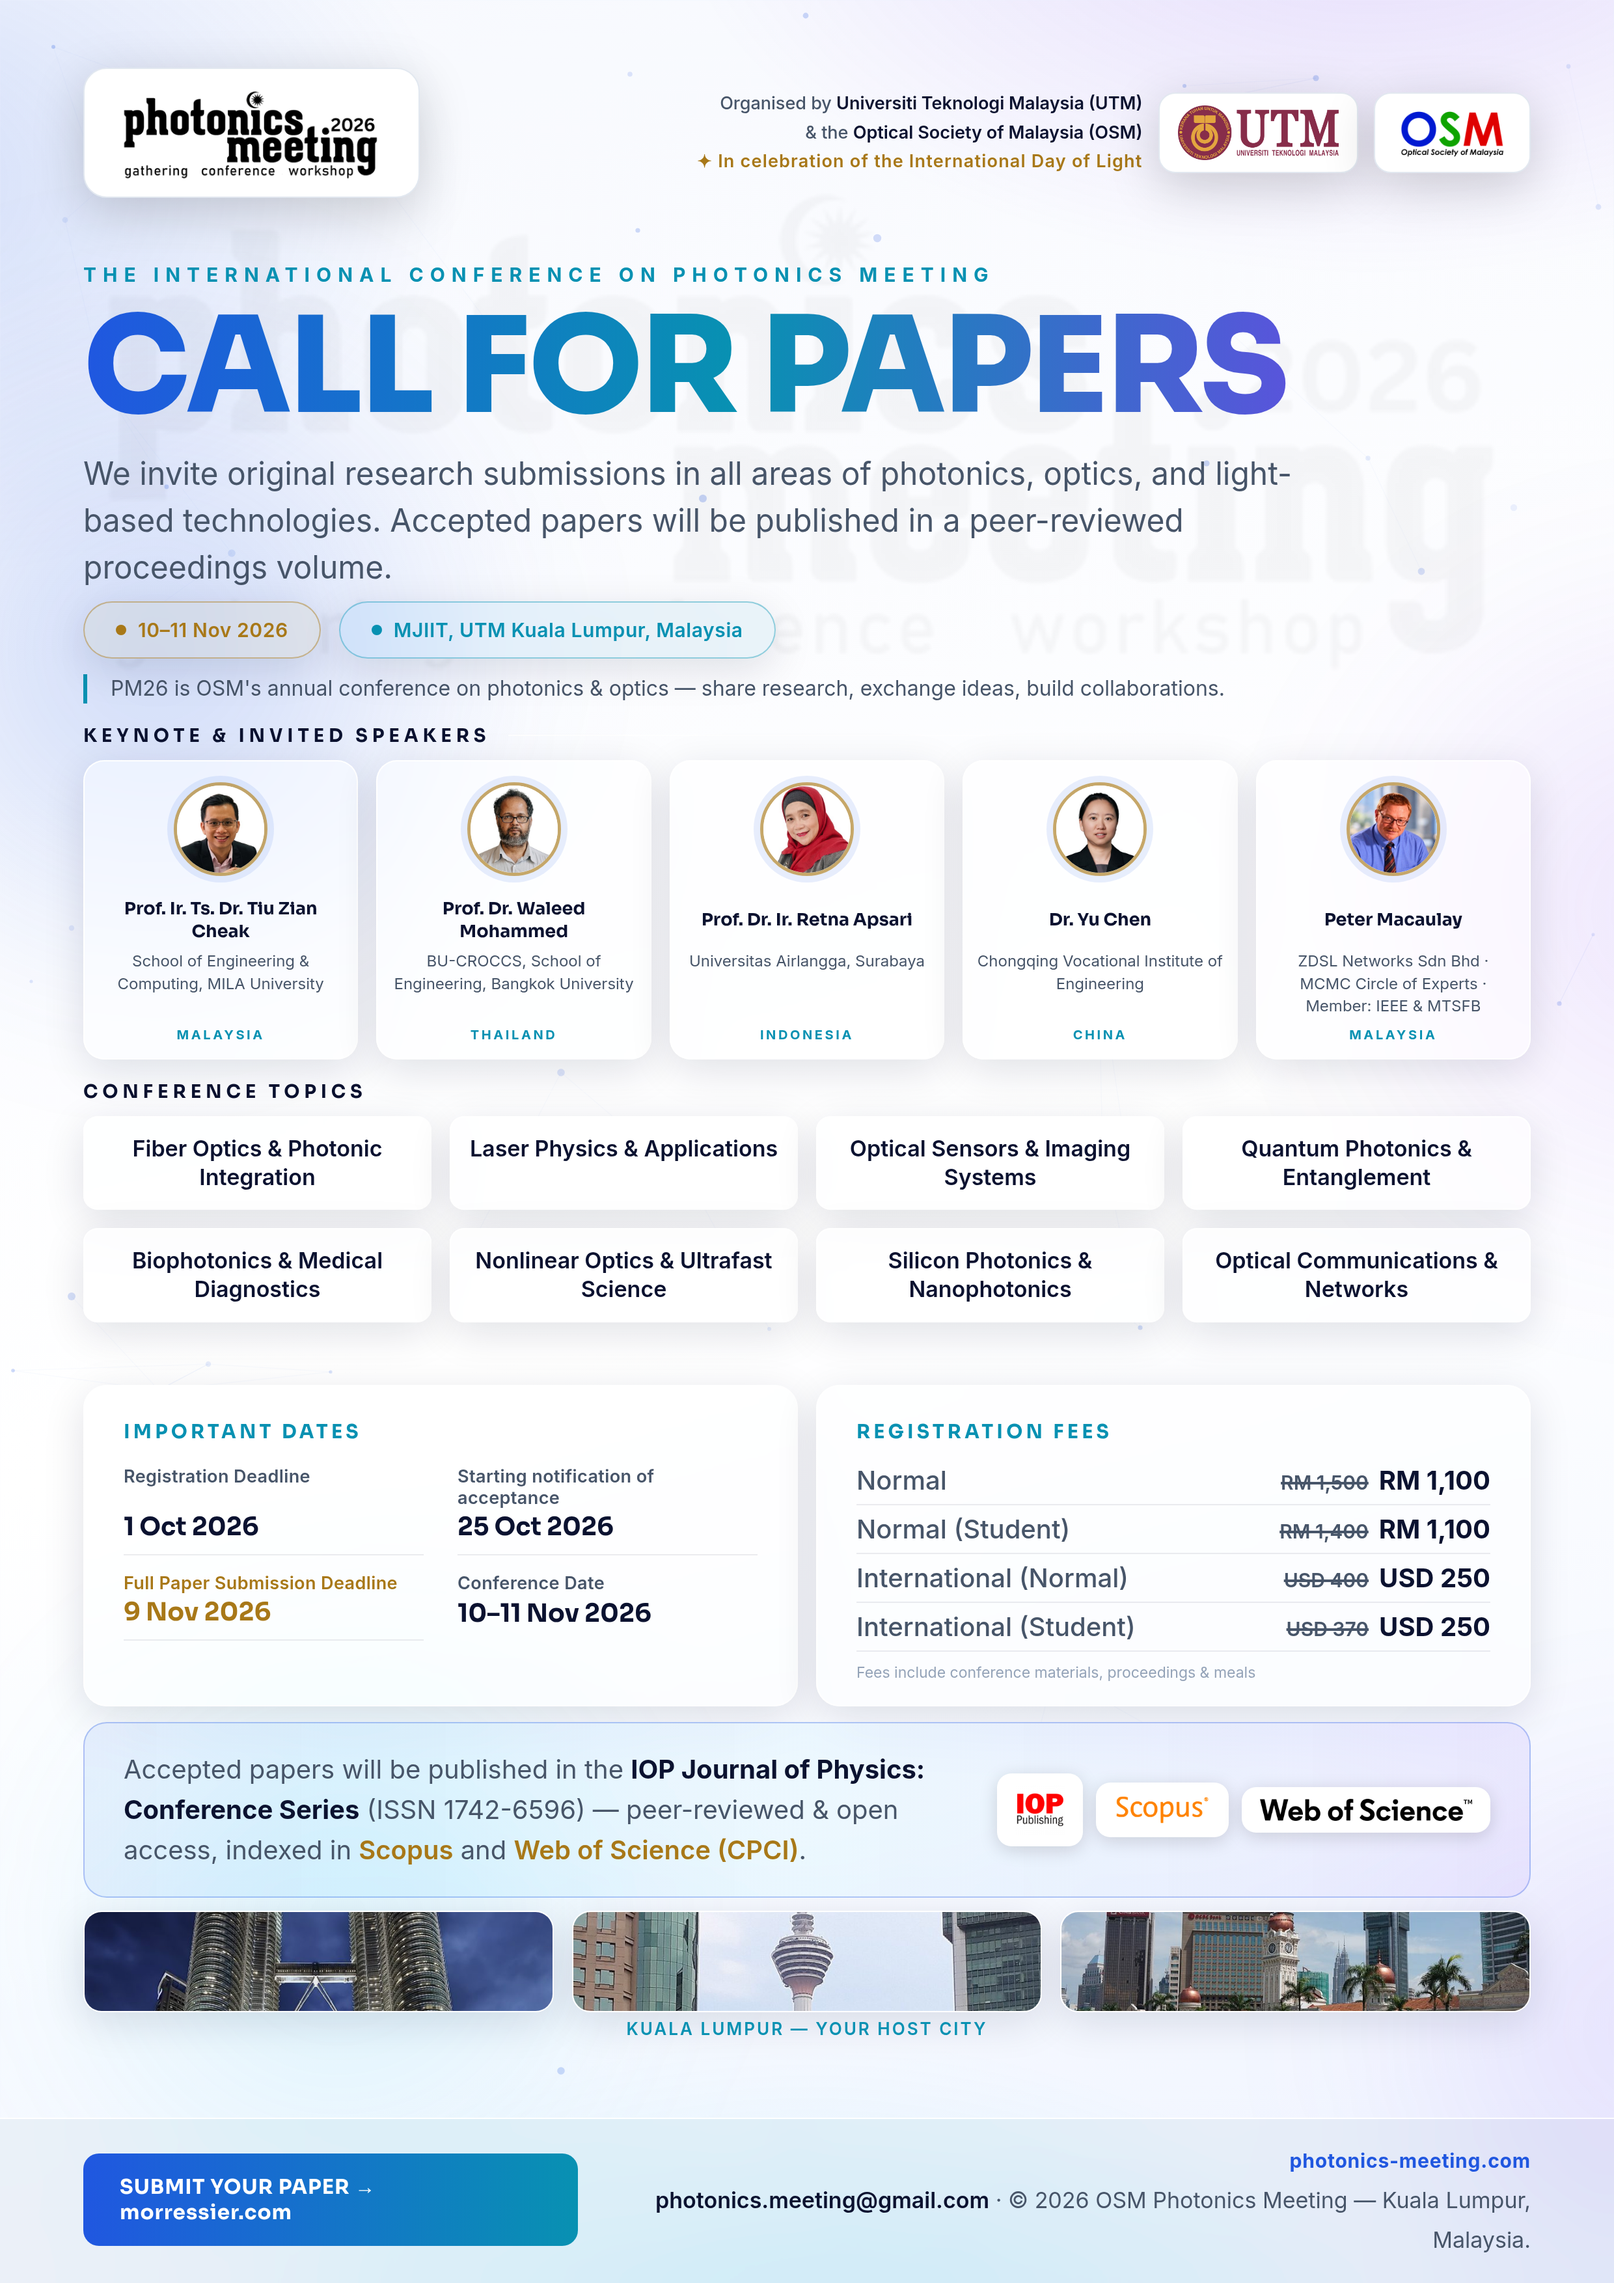
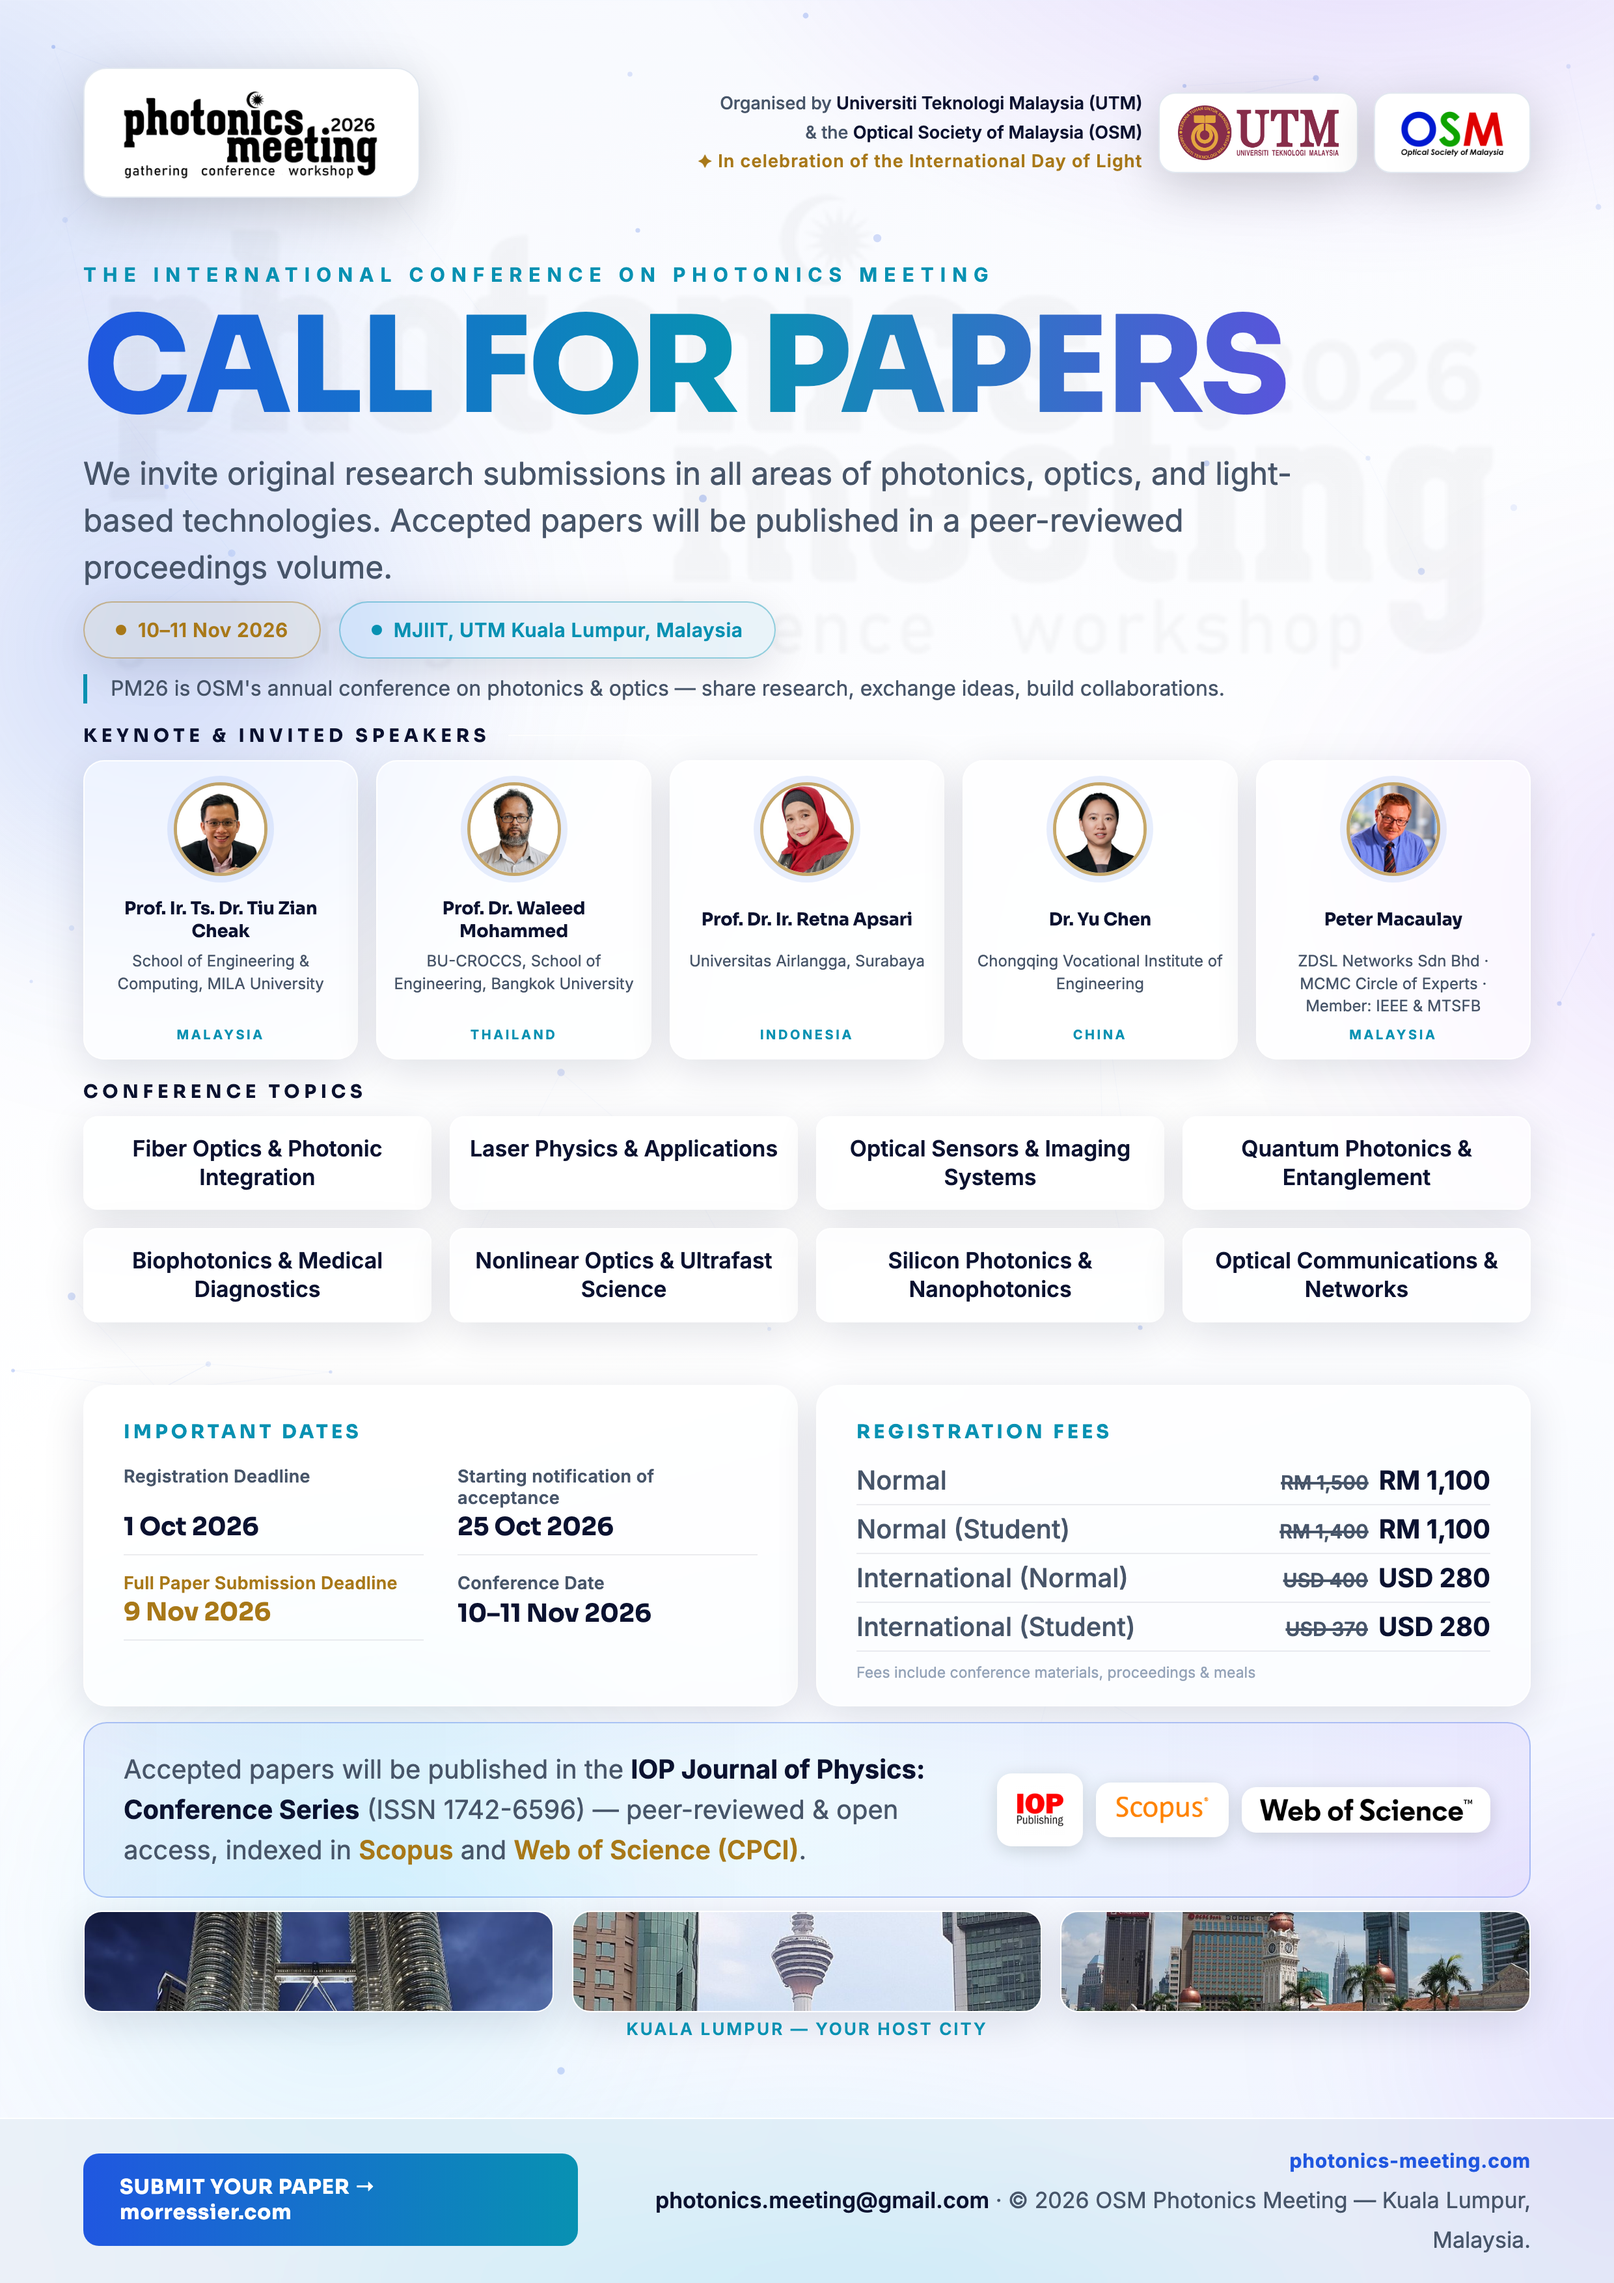
Fees: international rate to USD 280 (was USD 250)
Both international tiers (Normal and Student) now USD 280, previous rates
still shown struck through. Malaysian rate unchanged at RM 1,100.
Posters regenerated.

Changed region(s): [[0.2794, 0.4039, 0.3415, 0.435], [0.8694, 0.6836, 0.9004, 0.7147], [0.1242, 0.4039, 0.1552, 0.435]]

diff --git a/poster/pm26-cfp-poster-bright.html b/poster/pm26-cfp-poster-bright.html
@@ -183,7 +183,7 @@
     </div>
     <div class="panel">
       <h3>REGISTRATION FEES</h3>
-      <div class="row"><span class="row-l">Normal</span><span class="row-r"><s class="row-old">RM 1,500</s>RM 1,100</span></div><div class="row"><span class="row-l">Normal (Student)</span><span class="row-r"><s class="row-old">RM 1,400</s>RM 1,100</span></div><div class="row"><span class="row-l">International (Normal)</span><span class="row-r"><s class="row-old">USD 400</s>USD 250</span></div><div class="row"><span class="row-l">International (Student)</span><span class="row-r"><s class="row-old">USD 370</s>USD 250</span></div>
+      <div class="row"><span class="row-l">Normal</span><span class="row-r"><s class="row-old">RM 1,500</s>RM 1,100</span></div><div class="row"><span class="row-l">Normal (Student)</span><span class="row-r"><s class="row-old">RM 1,400</s>RM 1,100</span></div><div class="row"><span class="row-l">International (Normal)</span><span class="row-r"><s class="row-old">USD 400</s>USD 280</span></div><div class="row"><span class="row-l">International (Student)</span><span class="row-r"><s class="row-old">USD 370</s>USD 280</span></div>
       <div class="fee-note">Fees include conference materials, proceedings &amp; meals</div>
     </div>
   </div>

diff --git a/poster/pm26-cfp-poster.html b/poster/pm26-cfp-poster.html
@@ -183,7 +183,7 @@
     </div>
     <div class="panel">
       <h3>REGISTRATION FEES</h3>
-      <div class="row"><span class="row-l">Normal</span><span class="row-r"><s class="row-old">RM 1,500</s>RM 1,100</span></div><div class="row"><span class="row-l">Normal (Student)</span><span class="row-r"><s class="row-old">RM 1,400</s>RM 1,100</span></div><div class="row"><span class="row-l">International (Normal)</span><span class="row-r"><s class="row-old">USD 400</s>USD 250</span></div><div class="row"><span class="row-l">International (Student)</span><span class="row-r"><s class="row-old">USD 370</s>USD 250</span></div>
+      <div class="row"><span class="row-l">Normal</span><span class="row-r"><s class="row-old">RM 1,500</s>RM 1,100</span></div><div class="row"><span class="row-l">Normal (Student)</span><span class="row-r"><s class="row-old">RM 1,400</s>RM 1,100</span></div><div class="row"><span class="row-l">International (Normal)</span><span class="row-r"><s class="row-old">USD 400</s>USD 280</span></div><div class="row"><span class="row-l">International (Student)</span><span class="row-r"><s class="row-old">USD 370</s>USD 280</span></div>
       <div class="fee-note">Fees include conference materials, proceedings &amp; meals</div>
     </div>
   </div>

diff --git a/index.html b/index.html
@@ -2423,13 +2423,13 @@ body::before {
     },
     {
       "category": "International (Normal)",
-      "fee": "USD 250",
+      "fee": "USD 280",
       "old_fee": "USD 400",
       "notes": ""
     },
     {
       "category": "International (Student)",
-      "fee": "USD 250",
+      "fee": "USD 280",
       "old_fee": "USD 370",
       "notes": ""
     }
